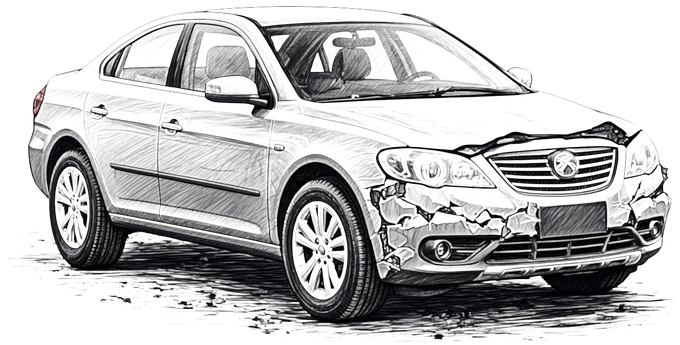
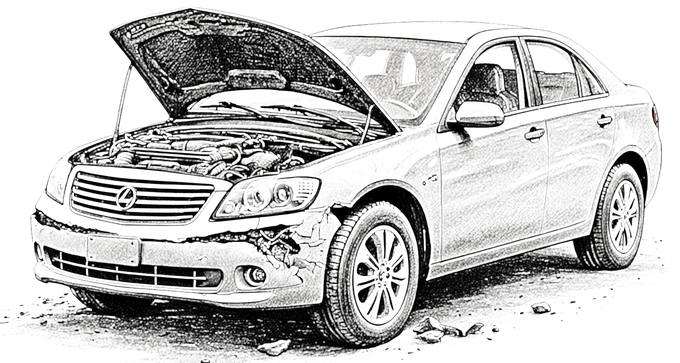
Sembol seti düzeltmeleri: 7 hatalı nesne yenilendi + 38 boyut/oran senkronu
Görsel hatalar: deforme mermi (mantar/kokostan temiz mermi+deformasyon),
şarjör (termos görünümlü -> dikdörtgen şarjör), tüfek kovanı (dolu fişek ->
boş kovan), devrilmiş araç (hafif eğik -> tavanüstü), ağır hasarlı araç
(sağlam -> buruşuk kaput/kırık cam), yatık motosiklet (dik -> gerçekten
yatık), dorse (çekici kamyon -> tek başına dorse).

symbols.ts: 30 girişte width/height gerçek PNG en-boy oranıyla senkronlandı
(alan korumalı), 8 yol/araç girişinde hedef genişlik korundu. type:'symbol'
nesneler tuvalde kutuya gerildiği için bu senkron zorunluydu (eski 222
sembolle %0 uyumsuzluk kuralına göre).

Doğrulama: tsc + build + headless panel kontrolü (Giysi Eşya kategorisi).

diff --git a/src/constants/symbols.ts b/src/constants/symbols.ts
@@ -48,10 +48,10 @@ export const SYMBOL_CATEGORIES = [
       { id: 'ei-money', name: 'Para Destesi', src: '/assets/symbols/evidence/ei_money.png', type: 'symbol', width: 130, height: 90, description: 'Bantlanmış banknot destesi — ganimet/şüpheli para.' },
       { id: 'ei-phone', name: 'Cep Telefonu', src: '/assets/symbols/evidence/ei_phone.png', type: 'symbol', width: 85, height: 128, description: 'Delil olarak ele geçirilen cep telefonu.' },
       { id: 'ei-cigarette', name: 'Sigara İzmariti', src: '/assets/symbols/evidence/ei_cigarette.png', type: 'symbol', width: 130, height: 53, description: 'Olay yerinde bulunan sönmüş sigara izmariti (DNA delili).' },
-      { id: 'ei-glasses', name: 'Gözlük', src: '/assets/symbols/evidence/ei_glasses.png', type: 'symbol', width: 135, height: 75, description: 'Olay yerinde bulunan gözlük.' },
+      { id: 'ei-glasses', name: 'Gözlük', src: '/assets/symbols/evidence/ei_glasses.png', type: 'symbol', width: 101, height: 101, description: 'Olay yerinde bulunan gözlük.' },
       { id: 'ei-watch', name: 'Kol Saati', src: '/assets/symbols/evidence/ei_watch.png', type: 'symbol', width: 105, height: 105, description: 'Kol saati — değerli eşya/kimlik tespiti.' },
-      { id: 'ei-keys', name: 'Anahtar Takımı', src: '/assets/symbols/evidence/ei_keys.png', type: 'symbol', width: 135, height: 85, description: 'Anahtarlık üzerinde anahtarlar.' },
-      { id: 'ei-id-card', name: 'Künye / Kimlik', src: '/assets/symbols/evidence/ei_id_card.png', type: 'symbol', width: 105, height: 125, description: 'Askılı fotoğraflı kimlik/künye belgesi.' },
+      { id: 'ei-keys', name: 'Anahtar Takımı', src: '/assets/symbols/evidence/ei_keys.png', type: 'symbol', width: 76, height: 107, description: 'Anahtarlık üzerinde anahtarlar.' },
+      { id: 'ei-id-card', name: 'Künye / Kimlik', src: '/assets/symbols/evidence/ei_id_card.png', type: 'symbol', width: 115, height: 115, description: 'Askılı fotoğraflı kimlik/künye belgesi.' },
       { id: 'ei-drone', name: 'Drone Fotoğraf Noktası', src: '/assets/symbols/evidence/ei_drone.png', type: 'symbol', width: 135, height: 105, description: 'Hava görüntüleme dronu — havadan olay yeri fotoğraf/koordinat işareti.' },
     ]
   },
@@ -118,11 +118,11 @@ export const SYMBOL_CATEGORIES = [
       { id: 'v-train', name: 'Lokomotif', src: '/assets/symbols/vehicles/train.svg', type: 'symbol', width: 112, height: 385 },
       { id: 'v-caravan', name: 'Karavan', src: '/assets/symbols/vehicles/caravan.svg', type: 'symbol', width: 225, height: 95 },
       { id: 'v-burned', name: 'Yanmış Araç', src: '/assets/symbols/vehicles/v_burned.png', type: 'symbol', width: 165, height: 98, description: 'Yangın geçirmiş, isli yanmış araç (kuşbakışı).' },
-      { id: 'v-overturned', name: 'Devrilmiş Araç (Takla)', src: '/assets/symbols/vehicles/v_overturned.png', type: 'symbol', width: 235, height: 125, description: 'Çatısına devrilmiş/takla atmış araç (yandan).' },
-      { id: 'v-damaged-front', name: 'Ağır Hasarlı Araç', src: '/assets/symbols/vehicles/v_damaged_front.png', type: 'symbol', width: 235, height: 115, description: 'Ön çarpışmada ezilmiş kaputlu ağır hasarlı araç.' },
-      { id: 'v-motor-fallen', name: 'Yatık Motosiklet', src: '/assets/symbols/vehicles/v_motor_fallen.png', type: 'symbol', width: 205, height: 105, description: 'Düşmüş/devrilmiş motosiklet (yandan).' },
+      { id: 'v-overturned', name: 'Devrilmiş Araç (Takla)', src: '/assets/symbols/vehicles/v_overturned.png', type: 'symbol', width: 235, height: 115, description: 'Çatısına devrilmiş/takla atmış araç (yandan).' },
+      { id: 'v-damaged-front', name: 'Ağır Hasarlı Araç', src: '/assets/symbols/vehicles/v_damaged_front.png', type: 'symbol', width: 235, height: 126, description: 'Ön çarpışmada ezilmiş kaputlu ağır hasarlı araç.' },
+      { id: 'v-motor-fallen', name: 'Yatık Motosiklet', src: '/assets/symbols/vehicles/v_motor_fallen.png', type: 'symbol', width: 205, height: 66, description: 'Düşmüş/devrilmiş motosiklet (yandan).' },
       { id: 'v-bicyclist', name: 'Bisikletli', src: '/assets/symbols/vehicles/v_bicyclist.png', type: 'symbol', width: 135, height: 125, description: 'Kasklı bisiklet kullanan kişi (yandan).' },
-      { id: 'v-trailer-only', name: 'Dorse (Ayrı)', src: '/assets/symbols/vehicles/v_trailer.png', type: 'symbol', width: 110, height: 265, description: 'Çekiciden ayrılmış yarı römork/dorse (yandan).' },
+      { id: 'v-trailer-only', name: 'Dorse (Ayrı)', src: '/assets/symbols/vehicles/v_trailer.png', type: 'symbol', width: 200, height: 225, description: 'Çekiciden ayrılmış yarı römork/dorse (yandan).' },
     ]
   },
   {
@@ -138,32 +138,32 @@ export const SYMBOL_CATEGORIES = [
       { id: 'ts-speed', name: 'Hız Sınırı (50)', src: '/assets/symbols/ts_speed.png', type: 'symbol', width: 55, height: 55, description: 'Hız sınırı tabelası (50 km/s).' },
       { id: 'ts-no-turn', name: 'Dönüş Yasak', src: '/assets/symbols/ts_no_turn.png', type: 'symbol', width: 55, height: 55, description: 'Sağa dönüş yasak tabelası.' },
       { id: 'ts-roadwork', name: 'Yol Çalışması', src: '/assets/symbols/ts_roadwork.png', type: 'symbol', width: 55, height: 53, description: 'Yol çalışması/şantiye uyarı tabelası.' },
-      { id: 'ts-speed-30', name: 'Hız Sınırı (30)', src: '/assets/symbols/ts_speed_30.png', type: 'symbol', width: 55, height: 55, description: 'Hız sınırı tabelası (30 km/s).' },
-      { id: 'ts-speed-70', name: 'Hız Sınırı (70)', src: '/assets/symbols/ts_speed_70.png', type: 'symbol', width: 55, height: 55, description: 'Hız sınırı tabelası (70 km/s).' },
+      { id: 'ts-speed-30', name: 'Hız Sınırı (30)', src: '/assets/symbols/ts_speed_30.png', type: 'symbol', width: 55, height: 51, description: 'Hız sınırı tabelası (30 km/s).' },
+      { id: 'ts-speed-70', name: 'Hız Sınırı (70)', src: '/assets/symbols/ts_speed_70.png', type: 'symbol', width: 51, height: 55, description: 'Hız sınırı tabelası (70 km/s).' },
       { id: 'ts-speed-90', name: 'Hız Sınırı (90)', src: '/assets/symbols/ts_speed_90.png', type: 'symbol', width: 55, height: 55, description: 'Hız sınırı tabelası (90 km/s).' },
       { id: 'ts-speed-110', name: 'Hız Sınırı (110)', src: '/assets/symbols/ts_speed_110.png', type: 'symbol', width: 55, height: 55, description: 'Hız sınırı tabelası (110 km/s).' },
       { id: 'ts-curve', name: 'Viraj Uyarısı', src: '/assets/symbols/ts_curve.png', type: 'symbol', width: 55, height: 55, description: 'Tehlikeli viraj uyarı tabelası.' },
-      { id: 'ts-slippery', name: 'Kaygan Yol', src: '/assets/symbols/ts_slippery.png', type: 'symbol', width: 55, height: 55, description: 'Kaygan zemin uyarı tabelası.' },
-      { id: 'ts-crossroads', name: 'Kavşak Uyarısı', src: '/assets/symbols/ts_crossroads.png', type: 'symbol', width: 55, height: 55, description: 'Kavşak (ana yol) uyarı tabelası.' },
+      { id: 'ts-slippery', name: 'Kaygan Yol', src: '/assets/symbols/ts_slippery.png', type: 'symbol', width: 55, height: 51, description: 'Kaygan zemin uyarı tabelası.' },
+      { id: 'ts-crossroads', name: 'Kavşak Uyarısı', src: '/assets/symbols/ts_crossroads.png', type: 'symbol', width: 55, height: 50, description: 'Kavşak (ana yol) uyarı tabelası.' },
       { id: 'ts-pedestrian', name: 'Yaya Geçidi (Tabela)', src: '/assets/symbols/ts_pedestrian.png', type: 'symbol', width: 55, height: 55, description: 'Yaya geçidi uyarı tabelası.' },
       { id: 'ts-no-parking', name: 'Park Yasak', src: '/assets/symbols/ts_no_parking.png', type: 'symbol', width: 55, height: 55, description: 'Park yasağı tabelası.' },
-      { id: 'ts-one-way', name: 'Tek Yön', src: '/assets/symbols/ts_one_way.png', type: 'symbol', width: 70, height: 48, description: 'Tek yönlü yol tabelası (sağa).' },
-      { id: 'ts-traffic-cone', name: 'Trafik Konisi', src: '/assets/symbols/ts_traffic_cone.png', type: 'symbol', width: 75, height: 90, description: 'Turuncu trafik konisi — güvenlik şeridi/şerit kapatma.' },
-      { id: 'ts-warning-triangle', name: 'Tehlike Üçgeni', src: '/assets/symbols/ts_warning_triangle.png', type: 'symbol', width: 95, height: 75, description: 'Arızalı araç arkasına kurulan katlanır tehlike üçgeni.' },
-      { id: 'ts-km-stone', name: 'Kilometre Taşı', src: '/assets/symbols/ts_km_stone.png', type: 'symbol', width: 80, height: 95, description: 'Yol kenarı kilometre taşı — konum referansı.' },
+      { id: 'ts-one-way', name: 'Tek Yön', src: '/assets/symbols/ts_one_way.png', type: 'symbol', width: 58, height: 56, description: 'Tek yönlü yol tabelası (sağa).' },
+      { id: 'ts-traffic-cone', name: 'Trafik Konisi', src: '/assets/symbols/ts_traffic_cone.png', type: 'symbol', width: 82, height: 82, description: 'Turuncu trafik konisi — güvenlik şeridi/şerit kapatma.' },
+      { id: 'ts-warning-triangle', name: 'Tehlike Üçgeni', src: '/assets/symbols/ts_warning_triangle.png', type: 'symbol', width: 77, height: 84, description: 'Arızalı araç arkasına kurulan katlanır tehlike üçgeni.' },
+      { id: 'ts-km-stone', name: 'Kilometre Taşı', src: '/assets/symbols/ts_km_stone.png', type: 'symbol', width: 87, height: 84, description: 'Yol kenarı kilometre taşı — konum referansı.' },
     ]
   },
   {
     id: 'clothing',
     name: 'Giysi Eşya',
     symbols: [
-      { id: 'cl-shoe', name: 'Ayakkabı', src: '/assets/symbols/clothing/cl_shoe.png', type: 'symbol', width: 110, height: 80, description: 'Klasik deri ayakkabı (yandan). Ayak izi eşleştirmesi ve şüpheli giysi tespitinde kullanılır.' },
-      { id: 'cl-boot', name: 'Bot / İş Ayakkabısı', src: '/assets/symbols/clothing/cl_boot.png', type: 'symbol', width: 120, height: 95, description: 'Rijit tabanlı iş botu (yandan).' },
-      { id: 'cl-helmet', name: 'Kask (Motosiklet)', src: '/assets/symbols/clothing/cl_helmet.png', type: 'symbol', width: 115, height: 90, description: 'Motosiklet kaskı. Kasksız sürüş ve kafa travmalı kazalarda kullanılır.' },
-      { id: 'cl-vest', name: 'Kurşun Geçirmez Yelek', src: '/assets/symbols/clothing/cl_vest.png', type: 'symbol', width: 125, height: 105, description: 'Kurşun geçirmez taktik yelek (ön görünüm).' },
-      { id: 'cl-backpack', name: 'Sırt Çantası', src: '/assets/symbols/clothing/cl_backpack.png', type: 'symbol', width: 115, height: 115, description: 'Sırt çantası. Terk edilmiş/şüpheli eşya olayları.' },
+      { id: 'cl-shoe', name: 'Ayakkabı', src: '/assets/symbols/clothing/cl_shoe.png', type: 'symbol', width: 94, height: 94, description: 'Klasik deri ayakkabı (yandan). Ayak izi eşleştirmesi ve şüpheli giysi tespitinde kullanılır.' },
+      { id: 'cl-boot', name: 'Bot / İş Ayakkabısı', src: '/assets/symbols/clothing/cl_boot.png', type: 'symbol', width: 107, height: 96, description: 'Rijit tabanlı iş botu (yandan).' },
+      { id: 'cl-helmet', name: 'Kask (Motosiklet)', src: '/assets/symbols/clothing/cl_helmet.png', type: 'symbol', width: 101, height: 102, description: 'Motosiklet kaskı. Kasksız sürüş ve kafa travmalı kazalarda kullanılır.' },
+      { id: 'cl-vest', name: 'Kurşun Geçirmez Yelek', src: '/assets/symbols/clothing/cl_vest.png', type: 'symbol', width: 103, height: 115, description: 'Kurşun geçirmez taktik yelek (ön görünüm).' },
+      { id: 'cl-backpack', name: 'Sırt Çantası', src: '/assets/symbols/clothing/cl_backpack.png', type: 'symbol', width: 115, height: 106, description: 'Sırt çantası. Terk edilmiş/şüpheli eşya olayları.' },
       { id: 'cl-wallet', name: 'Cüzdan / Kimlik', src: '/assets/symbols/clothing/cl_wallet.png', type: 'symbol', width: 135, height: 105, description: 'Kimlik kartı ve banknotlu açık cüzdan. Hüviyet tespiti ve ganimet.' },
-      { id: 'cl-glove', name: 'Eldiven (Lateks)', src: '/assets/symbols/clothing/cl_glove.png', type: 'symbol', width: 115, height: 95, description: 'Lateks muayene eldiveni. Delil işleme ve koruma.' },
+      { id: 'cl-glove', name: 'Eldiven (Lateks)', src: '/assets/symbols/clothing/cl_glove.png', type: 'symbol', width: 78, height: 105, description: 'Lateks muayene eldiveni. Delil işleme ve koruma.' },
       { id: 'cl-cap', name: 'Kep / Şapka', src: '/assets/symbols/clothing/cl_cap.png', type: 'symbol', width: 135, height: 95, description: 'Kolluk kep şapkası (yandan).' },
       { id: 'cl-jacket', name: 'Mont / Ceket', src: '/assets/symbols/clothing/cl_jacket.png', type: 'symbol', width: 125, height: 115, description: 'Katlanmış mont veya kaban.' },
     ]
@@ -255,10 +255,10 @@ export const SYMBOL_CATEGORIES = [
       { id: 'st-sidewalk', name: 'Kaldırım', src: '/assets/symbols/roads/st_sidewalk.png', type: 'symbol', width: 170, height: 68, description: 'Karo desenli kaldırım bloğu. Boyutlandırılarak yol kenarları çizilir.' },
       { id: 'st-median', name: 'Orta Refüj', src: '/assets/symbols/roads/st_median.png', type: 'symbol', width: 170, height: 55, description: 'Çift sarı çizgili, bitkili orta refüj/ada şeridi.' },
       { id: 'st-parking-lot', name: 'Otopark Alanı', src: '/assets/symbols/roads/st_parking_lot.png', type: 'symbol', width: 155, height: 118, description: 'Numaralanmış park yerleri olan otopark alanı.' },
-      { id: 'st-wet', name: 'Islak Zemin', src: '/assets/symbols/roads/st_wet.png', type: 'symbol', width: 185, height: 125, description: 'Islak yol yüzeyi — yağmur sonrası kayganlık (kaza nedeni işareti).' },
+      { id: 'st-wet', name: 'Islak Zemin', src: '/assets/symbols/roads/st_wet.png', type: 'symbol', width: 185, height: 133, description: 'Islak yol yüzeyi — yağmur sonrası kayganlık (kaza nedeni işareti).' },
       { id: 'st-ice', name: 'Buzlanma', src: '/assets/symbols/roads/st_ice.png', type: 'symbol', width: 185, height: 125, description: 'Buz/kırağı kaplı yol yüzeyi — kaza nedeni işareti.' },
       { id: 'st-pothole', name: 'Yol Çukuru', src: '/assets/symbols/roads/st_pothole.png', type: 'symbol', width: 185, height: 125, description: 'Hasarlı asfalt üzerinde yol çukuru.' },
-      { id: 'st-fog', name: 'Sis Bandı', src: '/assets/symbols/roads/st_fog.png', type: 'symbol', width: 225, height: 105, description: 'Görüşü düşüren sis bandı (koşul işareti).' },
+      { id: 'st-fog', name: 'Sis Bandı', src: '/assets/symbols/roads/st_fog.png', type: 'symbol', width: 225, height: 167, description: 'Görüşü düşüren sis bandı (koşul işareti).' },
     ]
   },
   {
@@ -307,13 +307,13 @@ export const SYMBOL_CATEGORIES = [
         description: 'Duvar ve betonarme yüzeylerdeki mermi çarpma ve oyuk izi.'
       },
       { id: 'tr-liquid-pool', name: 'Su / Sıvı Birikintisi', src: '/assets/symbols/tr_liquid_pool.png', type: 'symbol', width: 160, height: 100, description: 'Su, yağ veya başka sıvı birikintisi (şeffaf mavi).' },
-      { id: 'tr-footprint', name: 'Ayak İzi (Taban)', src: '/assets/symbols/tr_footprint.png', type: 'symbol', width: 95, height: 125, description: 'Tozda ayakkabı taban baskısı — adli iz tespiti.' },
-      { id: 'tr-skid-straight', name: 'Fren İzi (Düz)', src: '/assets/symbols/tr_skid_straight.png', type: 'symbol', width: 325, height: 75, description: 'Çift düz lastik fren izi; uzatılarak fren mesafesi ölçümünde kullanılır.' },
-      { id: 'tr-skid-curved', name: 'Fren İzi (Kavisli)', src: '/assets/symbols/tr_skid_curved.png', type: 'symbol', width: 325, height: 75, description: 'Kavisli/izdüşüm fren izi — yanal kayma ve manevra.' },
-      { id: 'tr-casing-pistol', name: 'Kovan (Tabanca)', src: '/assets/symbols/tr_casing_pistol.png', type: 'symbol', width: 115, height: 75, description: 'Atılmış boş tabanca kovanı.' },
-      { id: 'tr-casing-rifle', name: 'Kovan (Tüfek)', src: '/assets/symbols/tr_casing_rifle.png', type: 'symbol', width: 135, height: 65, description: 'Uzun namlulu fişek kovanı.' },
-      { id: 'tr-bullet-deformed', name: 'Deforme Mermi', src: '/assets/symbols/tr_bullet_deformed.png', type: 'symbol', width: 115, height: 95, description: 'Mantarlaşmış/deforme mermi çekirdeği.' },
-      { id: 'tr-magazine', name: 'Şarjör', src: '/assets/symbols/tr_magazine.png', type: 'symbol', width: 85, height: 125, description: 'Dolu tabanca şarjörü.' },
+      { id: 'tr-footprint', name: 'Ayak İzi (Taban)', src: '/assets/symbols/tr_footprint.png', type: 'symbol', width: 52, height: 109, description: 'Tozda ayakkabı taban baskısı — adli iz tespiti.' },
+      { id: 'tr-skid-straight', name: 'Fren İzi (Düz)', src: '/assets/symbols/tr_skid_straight.png', type: 'symbol', width: 325, height: 150, description: 'Çift düz lastik fren izi; uzatılarak fren mesafesi ölçümünde kullanılır.' },
+      { id: 'tr-skid-curved', name: 'Fren İzi (Kavisli)', src: '/assets/symbols/tr_skid_curved.png', type: 'symbol', width: 325, height: 188, description: 'Kavisli/izdüşüm fren izi — yanal kayma ve manevra.' },
+      { id: 'tr-casing-pistol', name: 'Kovan (Tabanca)', src: '/assets/symbols/tr_casing_pistol.png', type: 'symbol', width: 93, height: 93, description: 'Atılmış boş tabanca kovanı.' },
+      { id: 'tr-casing-rifle', name: 'Kovan (Tüfek)', src: '/assets/symbols/tr_casing_rifle.png', type: 'symbol', width: 94, height: 94, description: 'Uzun namlulu fişek kovanı.' },
+      { id: 'tr-bullet-deformed', name: 'Deforme Mermi', src: '/assets/symbols/tr_bullet_deformed.png', type: 'symbol', width: 105, height: 64, description: 'Mantarlaşmış/deforme mermi çekirdeği.' },
+      { id: 'tr-magazine', name: 'Şarjör', src: '/assets/symbols/tr_magazine.png', type: 'symbol', width: 57, height: 103, description: 'Dolu tabanca şarjörü.' },
       { id: 'tr-bloody-footprint', name: 'Kanlı Ayak İzi', src: '/assets/symbols/tr_bloody_footprint.png', type: 'symbol', width: 95, height: 125, description: 'Kan transferli ayakkabı baskısı — olay yeri terk izi.' },
       { id: 'tr-mud', name: 'Çamur İzi', src: '/assets/symbols/tr_mud.png', type: 'symbol', width: 205, height: 125, description: 'Islak toprak/çamur birikintisi ve sıçrama izi.' },
     ]
